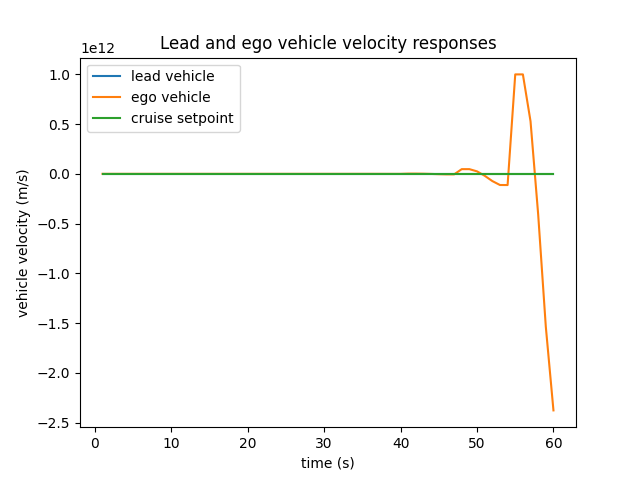
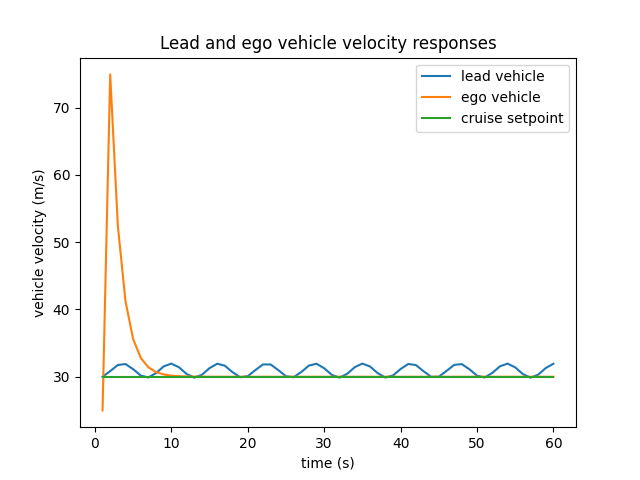
switched to P control for now to try and debug some issues

diff --git a/src/acc.cc b/src/acc.cc
@@ -18,23 +18,23 @@ void ACC::SetPID(double P, double I, double D) {
 }
 
 void ACC::ApplyControl(double lead_distance, double ego_distance, double actual_speed) {
-    std::cout << "lead distance: " << lead_distance << ", " << "ego distance: " << ego_distance << std::endl;
-    std::cout << "abs distance: " << abs(lead_distance-ego_distance) << std::endl;
-    std::cout << "---------------" << std::endl;
+//    std::cout << "lead distance: " << lead_distance << ", " << "ego distance: " << ego_distance << std::endl;
+ //   std::cout << "abs distance: " << abs(lead_distance-ego_distance) << std::endl;
+  //  std::cout << "---------------" << std::endl;
 
     this->actual_speed=actual_speed;
 
     if(abs(lead_distance-ego_distance) > set_distance) {
         // minimum distance is not violated
 
-        std::cout << "dist not violated" << std::endl;
+//        std::cout << "dist not violated" << std::endl;
         setpoint = set_speed;
         
         // calculate control value
         control = controller.Compute(actual_speed, setpoint); 
 
     } else {
-        std::cout << "dist violated" << std::endl;
+//        std::cout << "dist violated" << std::endl;
         // minimum distance is violated
         setpoint = abs(set_speed-actual_speed);
         // trigger PID to act around new setpoint
@@ -61,8 +61,8 @@ void ACC::ApplyControl(double lead_distance, double ego_distance, double actual_
         brake=-control;
     }
 
-    std::cout << "setpoint: " << setpoint << ", actual speed: " << actual_speed << ", control -> " << control << std::endl;
-    std::cout << "gas: " << gas << ", " << "brake: " << brake << std::endl;
+//    std::cout << "setpoint: " << setpoint << ", actual speed: " << actual_speed << ", control -> " << control << std::endl;
+ //   std::cout << "gas: " << gas << ", " << "brake: " << brake << std::endl;
 
 
 }
@@ -80,7 +80,7 @@ double ACC::GetAcceleration() {
 
     force = force_gas + force_brake + force_resistance;
     acceleration = force / mass;
-    std::cout << "acceleration: " << acceleration << std::endl;
+   // std::cout << "acceleration: " << acceleration << std::endl;
     return acceleration;
 }
 

diff --git a/tests/main.py b/tests/main.py
@@ -13,7 +13,6 @@ if __name__ == "__main__":
     T = np.linspace(1, DURATION, STEP*DURATION)
 
     SETPOINT=[30]*DURATION
-    DISTANCE=[10]*DURATION
 
     stdin_arr = []
     error = []
@@ -22,7 +21,9 @@ if __name__ == "__main__":
     ego_v = []
     lead_a = []
     ego_a = []
-    dist = []
+    dist1 = []
+    dist2 = []
+
 
     for line in sys.stdin:
         # stdin: error, lead speed,e go speed, lead acceleration, ego acceleration, distance
@@ -30,26 +31,28 @@ if __name__ == "__main__":
         # split the input by ,
         stdin_arr = line.split(",")
         # idx 0 is error
-        error.append(stdin_arr[0])
+        error.append(float(stdin_arr[0]))
 
         #idx 1 is error sum
-        error_sum.append(int(float(stdin_arr[1])))
+        error_sum.append(float(stdin_arr[1]))
 
         # idx 1 is lead speed
-        lead_v.append(int(float(stdin_arr[2])))
+        lead_v.append(float(stdin_arr[2]))
 
         #idx 2 is ego speed
-        ego_v.append(int(float(stdin_arr[3])))
+        ego_v.append(float(stdin_arr[3]))
 
         # idx 3 is lead acceleration
-        lead_a.append(int(float(stdin_arr[4])))
+        lead_a.append(float(stdin_arr[4]))
 
         # idx 4 is ego acceleration
-        ego_a.append(int(float(stdin_arr[5])))
+        ego_a.append(float(stdin_arr[5]))
 
         # idx 5 is distance between vehicles
 
-        dist.append(int(float(stdin_arr[6].strip("\n"))))
+        dist1.append(float(stdin_arr[6]))
+
+        dist2.append(float(stdin_arr[7].strip("\n")))
 
     # error
     
@@ -94,11 +97,12 @@ if __name__ == "__main__":
 
 
     # distance
-    plt.plot(T, dist)
-    plt.plot(T, DISTANCE)
+    plt.plot(T, dist1)
+    plt.plot(T, dist2)
     plt.xlabel("time (s)")
     plt.ylabel("distance (m)")
     plt.title("Distance between lead and ego vehicle over time")
-    plt.legend(["actual distance","minimum distance"])
+    plt.legend(["lead vehicle", "ego vehicle"])
+    DISTANCE=[10]*DURATION
     plt.savefig("plots/distance.png")
 

diff --git a/src/main.cc b/src/main.cc
@@ -9,7 +9,7 @@
 #define SETDISTANCE 10  // minimum distance in m
 #define SIMDURATION 60  // simulation duration in s
 #define SCALE       1   // scale factor for lead acceleration sine wave
-#define SHIFT       1   // shift factor for lead acceleration sine wave
+#define SHIFT       0   // shift factor for lead acceleration sine wave
 
 int main(int argc, char* argv[]) {
 
@@ -21,7 +21,8 @@ int main(int argc, char* argv[]) {
     ACC acc(SETSPEED, SETDISTANCE); // initialize with the set values
 
     // set PID params through ACC
-    acc.SetPID(0.15,1.0,0.0003);
+    // 0.15, 0.1, 0.0
+    acc.SetPID(1,0.0,0.0);
 
     acc.SetBounds(-20, 20);
 
@@ -42,7 +43,7 @@ int main(int argc, char* argv[]) {
 //        std::cout << "after state update" << std::endl;
  //       std::cout << "ego.GetSpeed(): " << ego.GetSpeed() << " lead.GetSpeed(): " << lead.GetSpeed() << std::endl;
 
-//        std::cout << acc.GetError() << "," << acc.GetErrorSum() << "," << lead.GetSpeed() << "," << ego.GetSpeed() << "," << lead.GetAcceleration() << "," << ego.GetAcceleration() << "," << abs(lead.GetPosition()-ego.GetPosition()) << std::endl;
+        std::cout << acc.GetError() << "," << acc.GetErrorSum() << "," << lead.GetSpeed() << "," << ego.GetSpeed() << "," << lead.GetAcceleration() << "," << ego.GetAcceleration() << "," << lead.GetPosition() << "," << ego.GetPosition() << std::endl;
 
     }
 }

diff --git a/src/pid.cc b/src/pid.cc
@@ -61,8 +61,9 @@ double PID::Compute(double actual, double setpoint) {
     this->setpoint=setpoint;
 
     double error=setpoint-actual; // error
+    this->error=error;
 
-    std::cout << "error: " << error << std::endl;
+//    std::cout << "error: " << error << std::endl;
     // proportional error
     p_output=P*error; // P * current error
 
@@ -81,15 +82,15 @@ double PID::Compute(double actual, double setpoint) {
 
     // total output value
     output=p_output+i_output+d_output;
-    std::cout << "output: " << output << std::endl;
+  //  std::cout << "output: " << output << std::endl;
 
     // error sum computing
     if(min_output!=max_output && !CheckBounds(output, min_output, max_output)) {
         error_sum=error;;
-        std::cout << "min=max or bounds check failed" << std::endl;
+    //    std::cout << "min=max or bounds check failed" << std::endl;
     } else {
         error_sum+=error;
-        std::cout << "error accumulation: " << error_sum << std::endl;
+      //  std::cout << "error accumulation: " << error_sum << std::endl;
     }
 
     last_output=output;

diff --git a/README.md b/README.md
@@ -4,8 +4,13 @@ Adaptive cruise control (ACC) is a control system that modifies the speed of the
 
 customer feedback:
 
-
 "I used my error-ridden TomCo Brand cruise control and reached Mach 1.5 on my way to the market, which is 5 mins away bc I drive everywhere. Life is great!"
+
+
+## status
+
+Right now, the controller needs to be tuned more. I have it set to purely P control as I iteratively tune, as clearly the error/total error isnt ideal. I need to do more debugging to trigger the ACC since I dont think range is being violated much. Finally, I'm not 100% sure the acceleration is properly being applied from the control response but more investigation is required. Also the README might be outdated.
+
 
 ## file structure
 
@@ -25,8 +30,7 @@ customer feedback:
 │   ├── pid.cc          -> PID controller
 │   └── vehicle.cc      -> vehicle dynamics and parameters
 └── tests
-    ├── main.py         -> plots the data read from stdout from the executable
-    └── plot.py         -> plot handler
+    └── main.py         -> plot handler
 ```
 
 
@@ -75,20 +79,23 @@ matplotlib
 
 to build
 
-`./run.sh --build`
+`./run.sh -t build`
 
 to run
 
-`./run.sh --run`
+`./run.sh -t run`
 
 to both
 
-`./run.sh`
+`./run.sh -t all`
+
+Tested on macOS 10.15
 
 This will run the simulator for the ego and lead vehicle with adaptive cruise control applied for the former. A sinusoidal acceleration is applied to the lead vehicle to elicit a response from the ego vehicle. The output is piped to a python file for processing and plotting. These files will be saved in the plots directory.
 
 ## to do
 * increase frequency of ticks per second to >1
+* LQG
 
 ## links
 * L. Bageshwar, L. Garrard and R. Rajamani "Model predictive control of transitional maneuvers for adaptive cruise control vehicles", IEEE Trans. Veh. Technol., vol. 53, no. 5, pp.1573 -1585 2004
